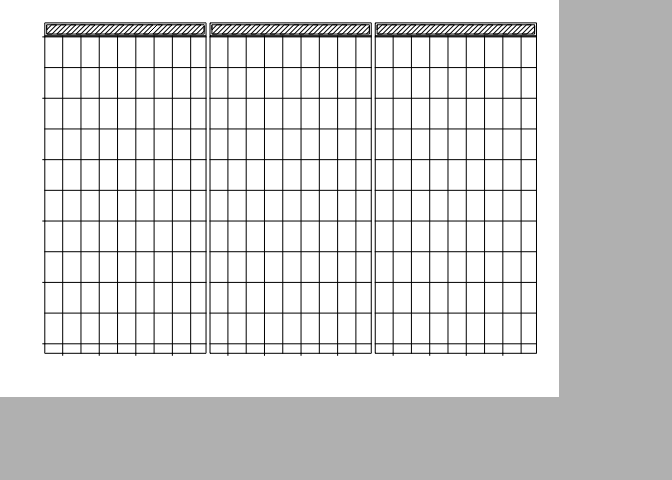
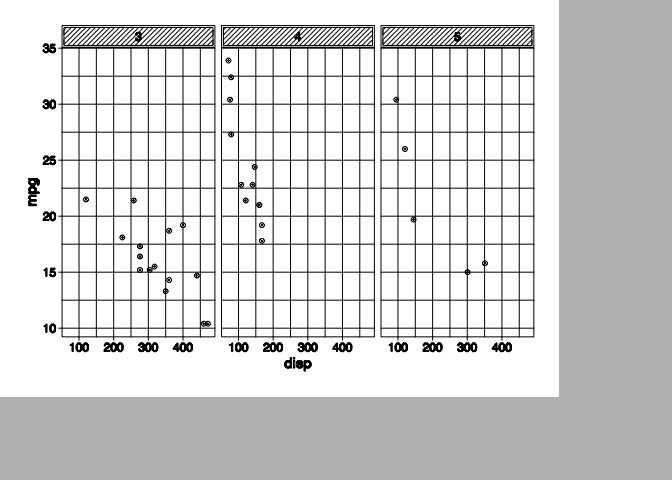
fix circle filling at small sizes

Changed region(s): [[0.0312, 0.0312, 0.8125, 0.7812]]

diff --git a/README.md b/README.md
@@ -10,8 +10,6 @@ status](https://github.com/thomasp85/fawkes/workflows/R-CMD-check/badge.svg)](ht
 [![Lifecycle:
 maturing](https://img.shields.io/badge/lifecycle-maturing-blue.svg)](https://www.tidyverse.org/lifecycle/#maturing)
 [![R-CMD-check](https://github.com/thomasp85/fawkes/actions/workflows/R-CMD-check.yaml/badge.svg)](https://github.com/thomasp85/fawkes/actions/workflows/R-CMD-check.yaml)
-[![Codecov test
-coverage](https://codecov.io/gh/thomasp85/fawkes/graph/badge.svg)](https://app.codecov.io/gh/thomasp85/fawkes)
 <!-- badges: end -->
 
 This package provides an R API to control the [AxiDraw pen
@@ -56,7 +54,7 @@ library(ggplot2)
 p <- ggplot(mtcars) + 
   geom_point(aes(disp, mpg)) + 
   facet_wrap(~ gear) + 
-  theme_bw(base_size = 6) + 
+  theme_bw(base_size = 10) + 
   theme(
     plot.background = element_blank(),
     panel.background = element_blank()
@@ -64,38 +62,6 @@ p <- ggplot(mtcars) +
 
 gd <- ghost_dev('A6', portrait = FALSE, margins = 5, ignore_color = TRUE)
 p
-#> Warning in value[[3L]](cond): wrong sign in 'by' argument
-#> Warning in value[[3L]](cond): wrong sign in 'by' argument
-#> Warning in value[[3L]](cond): wrong sign in 'by' argument
-#> Warning in value[[3L]](cond): wrong sign in 'by' argument
-#> Warning in value[[3L]](cond): wrong sign in 'by' argument
-#> Warning in value[[3L]](cond): wrong sign in 'by' argument
-#> Warning in value[[3L]](cond): wrong sign in 'by' argument
-#> Warning in value[[3L]](cond): wrong sign in 'by' argument
-#> Warning in value[[3L]](cond): wrong sign in 'by' argument
-#> Warning in value[[3L]](cond): wrong sign in 'by' argument
-#> Warning in value[[3L]](cond): wrong sign in 'by' argument
-#> Warning in value[[3L]](cond): wrong sign in 'by' argument
-#> Warning in value[[3L]](cond): wrong sign in 'by' argument
-#> Warning in value[[3L]](cond): wrong sign in 'by' argument
-#> Warning in value[[3L]](cond): wrong sign in 'by' argument
-#> Warning in value[[3L]](cond): wrong sign in 'by' argument
-#> Warning in value[[3L]](cond): wrong sign in 'by' argument
-#> Warning in value[[3L]](cond): wrong sign in 'by' argument
-#> Warning in value[[3L]](cond): wrong sign in 'by' argument
-#> Warning in value[[3L]](cond): wrong sign in 'by' argument
-#> Warning in value[[3L]](cond): wrong sign in 'by' argument
-#> Warning in value[[3L]](cond): wrong sign in 'by' argument
-#> Warning in value[[3L]](cond): wrong sign in 'by' argument
-#> Warning in value[[3L]](cond): wrong sign in 'by' argument
-#> Warning in value[[3L]](cond): wrong sign in 'by' argument
-#> Warning in value[[3L]](cond): wrong sign in 'by' argument
-#> Warning in value[[3L]](cond): wrong sign in 'by' argument
-#> Warning in value[[3L]](cond): wrong sign in 'by' argument
-#> Warning in value[[3L]](cond): wrong sign in 'by' argument
-#> Warning in value[[3L]](cond): wrong sign in 'by' argument
-#> Warning in value[[3L]](cond): wrong sign in 'by' argument
-#> Warning in value[[3L]](cond): wrong sign in 'by' argument
 invisible(dev.off())
 
 gd$preview()
@@ -118,38 +84,6 @@ optimisation:
 gd <- ghost_dev('A6', portrait = FALSE, margins = 5, ignore_color = TRUE,
                 optimize_order = 'none')
 p
-#> Warning in value[[3L]](cond): wrong sign in 'by' argument
-#> Warning in value[[3L]](cond): wrong sign in 'by' argument
-#> Warning in value[[3L]](cond): wrong sign in 'by' argument
-#> Warning in value[[3L]](cond): wrong sign in 'by' argument
-#> Warning in value[[3L]](cond): wrong sign in 'by' argument
-#> Warning in value[[3L]](cond): wrong sign in 'by' argument
-#> Warning in value[[3L]](cond): wrong sign in 'by' argument
-#> Warning in value[[3L]](cond): wrong sign in 'by' argument
-#> Warning in value[[3L]](cond): wrong sign in 'by' argument
-#> Warning in value[[3L]](cond): wrong sign in 'by' argument
-#> Warning in value[[3L]](cond): wrong sign in 'by' argument
-#> Warning in value[[3L]](cond): wrong sign in 'by' argument
-#> Warning in value[[3L]](cond): wrong sign in 'by' argument
-#> Warning in value[[3L]](cond): wrong sign in 'by' argument
-#> Warning in value[[3L]](cond): wrong sign in 'by' argument
-#> Warning in value[[3L]](cond): wrong sign in 'by' argument
-#> Warning in value[[3L]](cond): wrong sign in 'by' argument
-#> Warning in value[[3L]](cond): wrong sign in 'by' argument
-#> Warning in value[[3L]](cond): wrong sign in 'by' argument
-#> Warning in value[[3L]](cond): wrong sign in 'by' argument
-#> Warning in value[[3L]](cond): wrong sign in 'by' argument
-#> Warning in value[[3L]](cond): wrong sign in 'by' argument
-#> Warning in value[[3L]](cond): wrong sign in 'by' argument
-#> Warning in value[[3L]](cond): wrong sign in 'by' argument
-#> Warning in value[[3L]](cond): wrong sign in 'by' argument
-#> Warning in value[[3L]](cond): wrong sign in 'by' argument
-#> Warning in value[[3L]](cond): wrong sign in 'by' argument
-#> Warning in value[[3L]](cond): wrong sign in 'by' argument
-#> Warning in value[[3L]](cond): wrong sign in 'by' argument
-#> Warning in value[[3L]](cond): wrong sign in 'by' argument
-#> Warning in value[[3L]](cond): wrong sign in 'by' argument
-#> Warning in value[[3L]](cond): wrong sign in 'by' argument
 invisible(dev.off())
 
 gd$preview(plot_air = TRUE)
